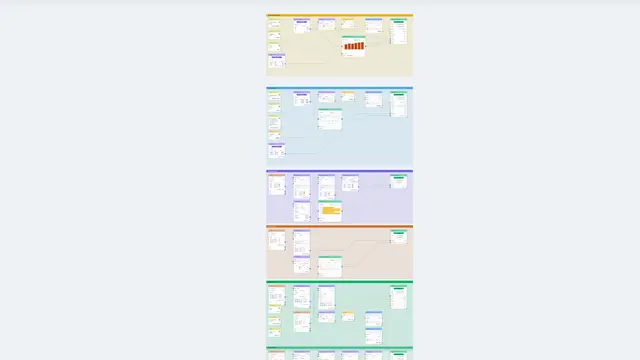
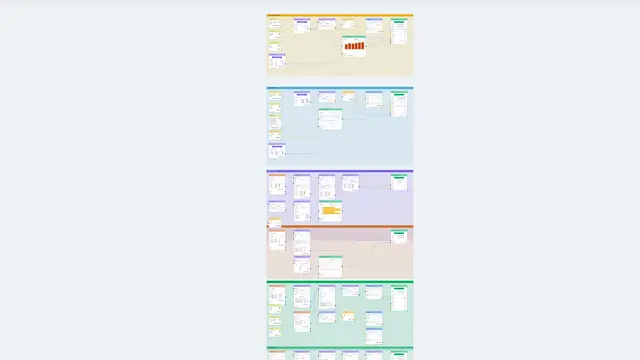
Showcase pages keep their answers on the canvas
Income, net, the team's total sales, the invoice's count awaiting payment
and the guide's total moons were computed inside the pages with Knap's sum
and where. Each is now a card (SUMIFS, Aggregate, COUNTIF) wired into its
page, so the number a page prints is one a person can see and change; the
pages keep only layout (sort, group, loop). The guide says so in its rules.

Claude-Session: https://claude.ai/code/session_01BJp3bTVCr7Widpfmiwj4Bj

Changed region(s): [[0.4062, 0.55, 0.4688, 0.6417], [0.5312, 0.7944, 0.625, 0.8556], [0.5312, 0.1222, 0.5625, 0.1528]]

diff --git a/demo-vault/Data/pages/guide.html b/demo-vault/Data/pages/guide.html
@@ -29,7 +29,7 @@
 
   <section id="loops">
     <h2><span class="n">2</span> Loops and ifs build the markup</h2>
-    <p>A Frame wired in is rows to loop over; each column is a field. Knap's <code>where</code>, <code>sort</code>, <code>map</code>, <code>sum</code> and <code>length</code> work on it too: these {{ planets | length }} planets have {{ planets | map: "Moons" | sum }} moons between them.</p>
+    <p>A Frame wired in is rows to loop over; each column is a field. Knap's <code>sort</code>, <code>where</code> and <code>unique</code> choose what the page shows and in what order. A total is an answer, not layout, so it comes from a card you can check: these {{ planets | length }} planets have {{ total_moons }} moons between them, summed by an Aggregate card.</p>
     <div class="planets">
       {% for p in planets | sort: "Moons" | reverse %}
       <div class="planet {% if p.Moons > 20 %}many{% endif %}" style="--d: {{ p.AU }}">
@@ -72,6 +72,7 @@
   <section id="rules">
     <h2><span class="n">6</span> The rules</h2>
     <ul>
+      <li>Keep the logic in the graph. A total, a filter that decides something, a rate: each is a card a person can see and change. The page formats, loops and places.</li>
       <li>Scripts never run: a page is a document, not an app.</li>
       <li>Nothing reaches the web. Pictures and fonts come from the data folder, up to 8 MB each.</li>
       <li>A link to <code>#id</code> scrolls the page. Print saves it as a PDF.</li>

diff --git a/demo-vault/Data/pages/team.html b/demo-vault/Data/pages/team.html
@@ -7,7 +7,7 @@
     <dl class="stats">
       <div><dt>People</dt><dd>{{ crew | length }}</dd></div>
       <div><dt>Remote</dt><dd>{{ crew | where: "Remote", true | length }}</dd></div>
-      <div><dt>Sold this year</dt><dd>${{ crew | map: "Sales YTD" | sum | number_format }}</dd></div>
+      <div><dt>Sold this year</dt><dd>${{ sold | number_format }}</dd></div>
       <div><dt>Top seller</dt><dd>{{ top["First Name"] }} {{ top["Last Name"] }}</dd></div>
     </dl>
   </header>

diff --git a/demo-vault/Data/pages/money.html b/demo-vault/Data/pages/money.html
@@ -1,8 +1,6 @@
 <!doctype html>
 <html><head><title>Money letter</title></head>
 <body>
-  {% set income = tx | where: "Category", "Income" | map: "Amount" | sum %}
-  {% set net = tx | map: "Amount" | sum %}
   <div class="letter">
     <p class="date">First quarter, 2026</p>
     <h1>Your money, <em>quarterly</em></h1>

diff --git a/demo-vault/Data/pages/invoice.html b/demo-vault/Data/pages/invoice.html
@@ -2,7 +2,6 @@
 <html><head><title>Invoice</title></head>
 <body>
   <div class="sheet">
-    {% set unpaid = lines | where: "Paid", false | length %}
     {% if unpaid == 0 %}<div class="stamp">Paid</div>{% else %}<div class="stamp due">Balance due</div>{% endif %}
     <header>
       <div>
